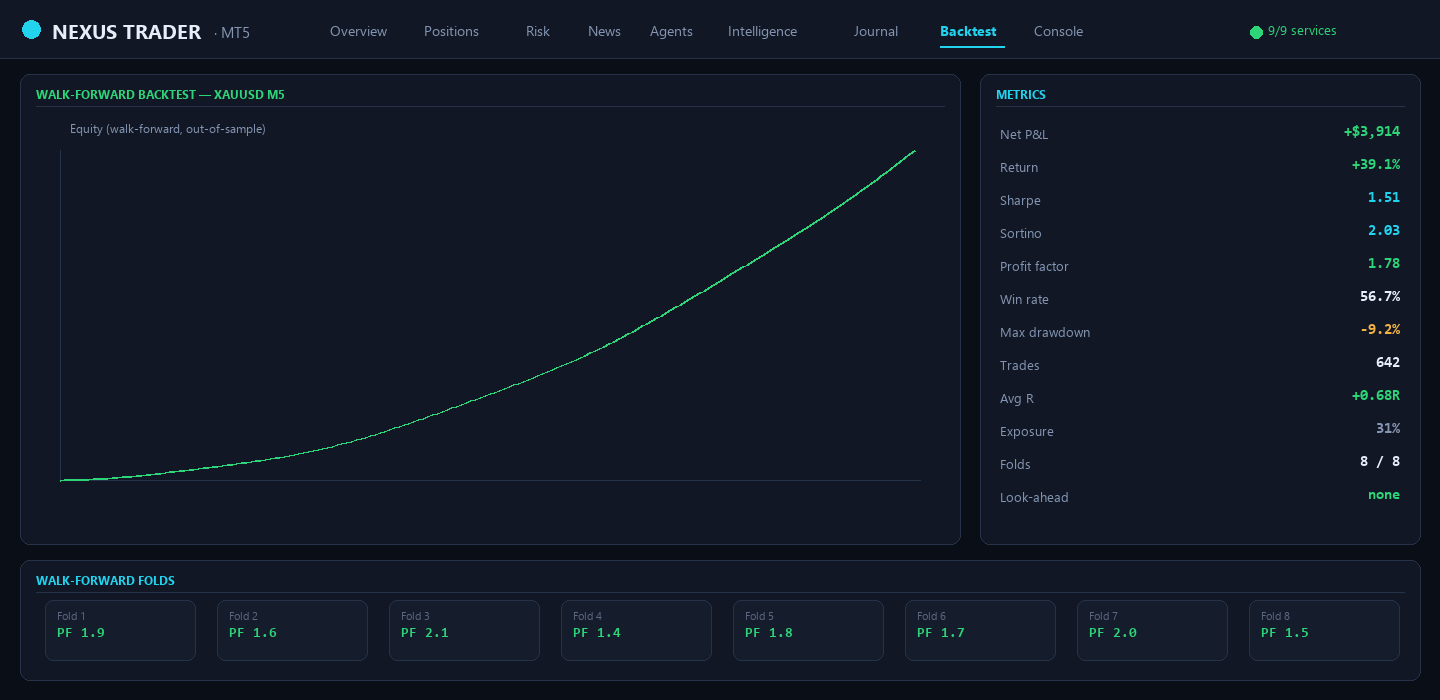
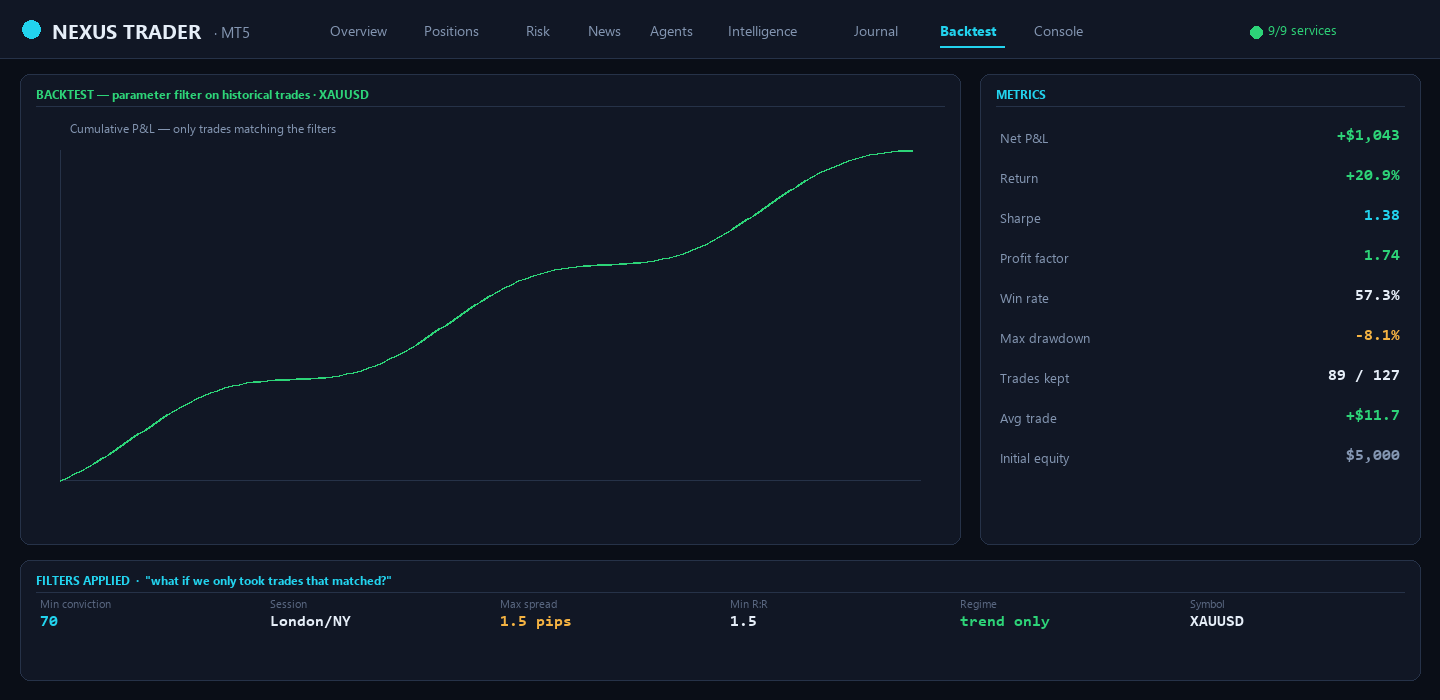
Correct README/mockups to match the real system (no overclaiming)
- PPO is a custom PyTorch impl, not stable-baselines3 → fix tech stack
- RL lifecycle manages OPEN POSITIONS bar-by-bar (hold/trail/partial/exit),
  not strategy promotion; strategy promotion/retirement is rule-based (registry)
- Backtest is a parameter-filter over historical closed trades, not a
  fold-based walk-forward; metrics limited to what it actually computes
  (WR/PF/Sharpe/max-DD) — removed Sortino/expectancy/folds from mockup
- Overview mockup: 5 real stat tiles + real Autonomous ML Pipeline panel
- Intelligence mockup: RL panel shows per-ticket position actions (real)

diff --git a/README.es.md b/README.es.md
@@ -163,7 +163,8 @@ Aquí es donde lo cuantitativo se encuentra con el ML moderno. Nexus combina, en
 | **Detección de anomalías** | Isolation Forest | Marca estados anómalos del mercado → suprime el trading |
 | **Debate multi-agente GenAI** | LangGraph + DeepSeek | Razonamiento adversarial alcista/bajista + un árbitro que debe justificar el veredicto |
 | **Sentimiento de noticias** | FinBERT + LLM | Scoring de impacto del calendario económico y **ventanas de blackout** pre-noticia |
-| **Aprendizaje por refuerzo** | PPO (stable-baselines3) | Un agente de *ciclo de vida* promueve/retira estrategias según su desempeño en vivo |
+| **Aprendizaje por refuerzo** | PPO (PyTorch) | Un agente de *ciclo de vida* gestiona cada posición abierta bar-by-bar — mantener / trailing / mover a breakeven / cierre parcial / salir |
+| **I+D autónoma de estrategias** | research registry | La GenAI propone estrategias; se backtestean y se promueven/retiran por umbrales basados en reglas |
 | **Riesgo conductual** | motor anti-tilt | Guardias de pérdidas consecutivas y revenge-trading — la capa psicológica que casi ningún bot tiene |
 | **Shadow trades** | risk + memory | Las señales rechazadas se registran contrafácticamente para medir el costo de la cautela |
 | **Memoria de trades** | DuckDB | Win-rates por hora / sesión / régimen alimentan umbrales *dinámicos* |
@@ -204,7 +205,7 @@ Una máquina de estados LangGraph de agentes especialistas (IA Generativa vía *
 | **Portfolio Strategist / Position Manager** | Coherencia a nivel portafolio y gestión de trades abiertos |
 | **News Sentinel** | Impacto del calendario económico + ventanas de blackout |
 
-El módulo de **Research** (`research/researcher.py`, `evaluator.py`, `registry.py`) propone, backtestea y registra nuevas estrategias de forma autónoma; el **RL lifecycle** (`traders/rl_lifecycle.py`, PPO) las promueve o retira según resultados en vivo.
+El módulo de **Research** (`research/researcher.py`, `evaluator.py`, `registry.py`) propone, backtestea y promueve/retira estrategias de forma autónoma mediante **umbrales basados en reglas** (estados: active / backtested / investigating / rejected). Por separado, un **agente PPO de ciclo de vida** (`nexus_ml/traders/rl_lifecycle.py`, PyTorch) gestiona cada *posición abierta* bar-by-bar — mantener, trailing, mover a breakeven, cierre parcial o salir.
 
 ---
 
@@ -236,7 +237,7 @@ Una sala de control en tiempo real en **Next.js 14** (pestañas: *Overview, Posi
 **Monitor de Riesgo** — cada circuit breaker, los gauges de pérdida diaria (20%) y drawdown, anti-tilt y dimensionado dinámico:
 ![Monitor de Riesgo](docs/screenshots/nexus-risk.png)
 
-**Backtest** — el motor walk-forward, la curva de equity out-of-sample y las métricas:
+**Backtest** — un backtest de filtro de parámetros sobre tus trades cerrados históricos (WR, PF, Sharpe, max drawdown) con curva de P&L acumulado:
 ![Backtest](docs/screenshots/nexus-backtest.png)
 
 ---
@@ -244,7 +245,7 @@ Una sala de control en tiempo real en **Next.js 14** (pestañas: *Overview, Posi
 ## 🧰 Stack tecnológico
 
 **Backend** · Python 3.11+ · FastAPI · Pydantic v2 · Redis (streams + caché) · DuckDB
-**ML/IA** · XGBoost · LightGBM · PyTorch (LSTM) · scikit-learn · hmmlearn · stable-baselines3 (PPO) · LangChain / LangGraph · **DeepSeek / OpenAI (GPT) / Gemini** (seleccionable) · FinBERT
+**ML/IA** · XGBoost · LightGBM · PyTorch (LSTM + PPO propio) · scikit-learn · hmmlearn · LangChain / LangGraph · **DeepSeek / OpenAI (GPT) / Gemini** (seleccionable) · FinBERT
 **Mercado** · MetaTrader5 · pandas-ta
 **Frontend** · Next.js 14 (App Router) · React · TypeScript · Tailwind · TanStack Query · WebSockets/SSE
 **Infra** · Redis (Docker) · un supervisor en Python (`run.py`) que arranca y sana toda la flota

diff --git a/README.md b/README.md
@@ -163,7 +163,8 @@ This is where quant meets modern ML. Nexus combines, in one system:
 | **Anomaly detection** | Isolation Forest | Flags abnormal market states → suppress trading |
 | **GenAI multi-agent debate** | LangGraph + DeepSeek | Bull/bear adversarial reasoning + an arbitrator that must justify the verdict |
 | **News sentiment** | FinBERT + LLM | Economic-calendar impact scoring and pre-news **blackout windows** |
-| **Reinforcement learning** | PPO (stable-baselines3) | A *lifecycle* agent promotes/retires strategies from live performance |
+| **Reinforcement learning** | PPO (PyTorch) | A *lifecycle* agent manages each open position bar-by-bar — hold / trail / move-to-breakeven / take-partial / exit |
+| **Autonomous strategy R&D** | research registry | GenAI proposes strategies; they're backtested and promoted/retired by rule-based thresholds |
 | **Behavioral risk** | anti-tilt engine | Consecutive-loss & revenge-trade guards — the psychology layer most bots ignore |
 | **Shadow trades** | risk + memory | Rejected signals are tracked counterfactually to measure the cost of caution |
 | **Trade memory** | DuckDB | Per-hour / per-session / per-regime win-rates feed *dynamic* thresholds |
@@ -204,7 +205,7 @@ A LangGraph state machine of specialist agents (GenAI via **DeepSeek**, OpenAI-c
 | **Portfolio Strategist / Position Manager** | Portfolio-level coherence and open-trade management |
 | **News Sentinel** | Economic-calendar impact + blackout windows |
 
-The **Research** module (`research/researcher.py`, `evaluator.py`, `registry.py`) autonomously proposes, backtests and registers new strategies; the **RL lifecycle** (`traders/rl_lifecycle.py`, PPO) promotes or retires them from live results.
+The **Research** module (`research/researcher.py`, `evaluator.py`, `registry.py`) autonomously proposes, backtests and promotes/retires strategies via **rule-based thresholds** (statuses: active / backtested / investigating / rejected). Separately, a **PPO lifecycle agent** (`nexus_ml/traders/rl_lifecycle.py`, PyTorch) manages each *open position* bar-by-bar — hold, trail, move-to-breakeven, take-partial or exit.
 
 ---
 
@@ -236,7 +237,7 @@ A real-time **Next.js 14** control room (tabs: *Overview, Positions, Risk, News,
 **Risk Monitor** — every circuit breaker, the daily-loss (20%) and drawdown gauges, anti-tilt and dynamic sizing:
 ![Risk Monitor](docs/screenshots/nexus-risk.png)
 
-**Backtest** — the walk-forward engine, out-of-sample equity curve and metrics:
+**Backtest** — a parameter-filter backtest over your historical closed trades (WR, PF, Sharpe, max drawdown) with a cumulative-P&L curve:
 ![Backtest](docs/screenshots/nexus-backtest.png)
 
 ---
@@ -244,7 +245,7 @@ A real-time **Next.js 14** control room (tabs: *Overview, Positions, Risk, News,
 ## 🧰 Tech stack
 
 **Backend** · Python 3.11+ · FastAPI · Pydantic v2 · Redis (streams + cache) · DuckDB
-**ML/AI** · XGBoost · LightGBM · PyTorch (LSTM) · scikit-learn · hmmlearn · stable-baselines3 (PPO) · LangChain / LangGraph · **DeepSeek / OpenAI (GPT) / Gemini** (selectable) · FinBERT
+**ML/AI** · XGBoost · LightGBM · PyTorch (LSTM + custom PPO) · scikit-learn · hmmlearn · LangChain / LangGraph · **DeepSeek / OpenAI (GPT) / Gemini** (selectable) · FinBERT
 **Market** · MetaTrader5 · pandas-ta
 **Frontend** · Next.js 14 (App Router) · React · TypeScript · Tailwind · TanStack Query · WebSockets/SSE
 **Infra** · Redis (Docker) · a Python supervisor (`run.py`) that boots and heals the whole fleet
